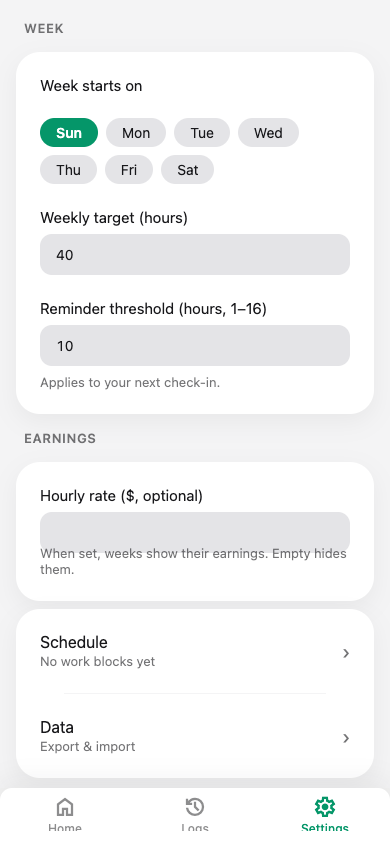
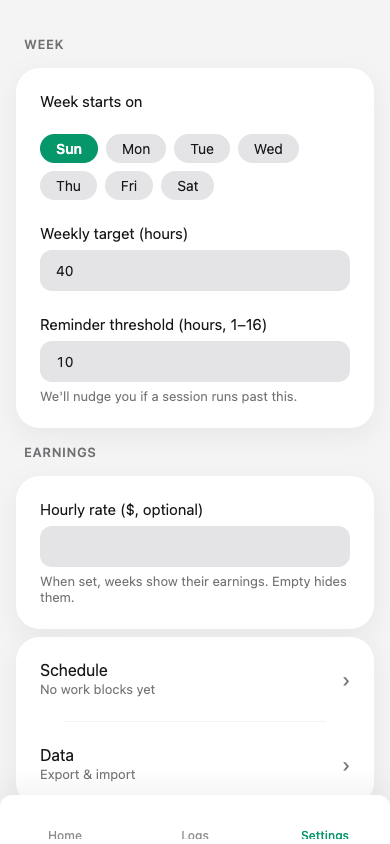
Expert review: resolve the high and medium findings
H1 — Logs color system: green stops meaning 'a category'. Breakdown
dots go neutral zinc steps; the today day-bar is text-colored with a
small green dot marker underneath (so the legend can never collide
with 'today'); the filter's selected chip fills dark (ChipRow gains
selectedStyle='dark') instead of category-green.

M1 — weekday initials under the seven day-bars (first grapheme of the
short name; Bangla graphemes work the same way).

H2 — Sheet duration promoted: '3h 28m' via a new engine
formatDurationWords (tested), 20px semibold centered — the payload of
the sheet no longer has the lowest visual weight on it.

H4 — Reminder threshold hint now explains behavior: 'We'll nudge you
if a session runs past this.' instead of the timing-ambiguous
'Applies to your next check-in.'

M5 — Category suggestions render as tonal pills in a wrapping row
(softPill), matching the chip language, fixing the cramped
suggestions-to-NOTE gap.

M6 — Dark progress track lightened one step (#52525B) so the goal is
perceivable against the near-black canvas.

M7 — Setup pills meet the 44pt touch-target minimum.

H3/M2/M3 deliberately unchanged: the session list already flows
directly after next-block (the reviewer's 270px dead zone was the old
bottom-anchored layout), and next-block centering + the nav card's
headerlessness are ratified decisions from the approved Stitch export.

Suite 111 (two new formatDurationWords tests).

diff --git a/app/(tabs)/logs.tsx b/app/(tabs)/logs.tsx
@@ -43,7 +43,7 @@ function buildRows(weeks: LogWeek[], isExpanded: (week: LogWeek) => boolean): Ro
 export default function LogsScreen() {
   const insets = useSafeAreaInsets();
   const theme = useTheme();
-  const { t, locale } = useI18n();
+  const { t, locale, weekdayShortName } = useI18n();
   const { refresh, sessions, settings, now, saveSession, removeSession, saveSettings } =
     useLogbook();
 
@@ -103,19 +103,30 @@ export default function LogsScreen() {
         row
         earningsLabel={week.earningsLabel}
       />
-      <View style={styles.bars}>
-        {week.dayBars.map((bar) => (
-          <View
-            key={bar.key}
-            style={[
-              styles.bar,
-              {
-                height: 3 + bar.intensity * 28,
-                backgroundColor: bar.isToday ? theme.accent : theme.inset,
-              },
-            ]}
-          />
-        ))}
+      <View>
+        <View style={styles.bars}>
+          {week.dayBars.map((bar) => (
+            <View key={bar.key} style={styles.barCol}>
+              <View
+                style={[
+                  styles.bar,
+                  {
+                    height: 3 + bar.intensity * 28,
+                    backgroundColor: bar.isToday ? theme.text : theme.inset,
+                  },
+                ]}
+              />
+              <View style={[styles.todayDot, { backgroundColor: bar.isToday ? theme.accent : 'transparent' }]} />
+            </View>
+          ))}
+        </View>
+        <View style={styles.barLabels}>
+          {week.dayBars.map((bar, i) => (
+            <Text key={bar.key} style={styles.barLabel}>
+              {Array.from(weekdayShortName((week.range.start.getDay() + i) % 7))[0]}
+            </Text>
+          ))}
+        </View>
       </View>
       {week.categoryBreakdown.length > 0 && (
         <View style={[styles.breakdown, { borderTopColor: theme.canvas }]}>
@@ -198,6 +209,7 @@ export default function LogsScreen() {
           options={[t('all'), ...suggestions]}
           isSelected={(option) => (categoryFilter === null ? option === t('all') : option === categoryFilter)}
           onSelect={(option) => setCategoryFilter(option === t('all') ? null : option)}
+          selectedStyle="dark"
         />
       </View>
 
@@ -228,10 +240,11 @@ export default function LogsScreen() {
   );
 }
 
-/** The breakdown dot palette — emerald first, then muted zinc steps. */
+/** The breakdown dot palette — neutral zinc steps. Green is reserved for the
+ *  working state (progress, earnings, today), never a category. */
 function dotColor(theme: ReturnType<typeof useTheme>, index: number): string {
-  if (index === 0) return theme.accent;
-  return index === 1 ? '#71717A' : theme.inset;
+  const steps = ['#52525B', '#71717A', '#A1A1AA'];
+  return steps[index % steps.length];
 }
 
 const styles = StyleSheet.create({
@@ -293,9 +306,30 @@ const styles = StyleSheet.create({
     height: 32,
     marginTop: 8,
   },
-  bar: {
+  barCol: {
     flex: 1,
+    alignItems: 'center',
+    gap: 3,
+  },
+  bar: {
+    alignSelf: 'stretch',
     borderRadius: 2,
+  },
+  todayDot: {
+    width: 4,
+    height: 4,
+    borderRadius: 999,
+  },
+  barLabels: {
+    flexDirection: 'row',
+    gap: 4,
+    marginTop: 2,
+  },
+  barLabel: {
+    flex: 1,
+    textAlign: 'center',
+    fontSize: 10,
+    opacity: 0.5,
   },
   breakdown: {
     gap: 12,

diff --git a/src/components/SessionDetailSheet.tsx b/src/components/SessionDetailSheet.tsx
@@ -16,10 +16,10 @@ import {
 import { SafeAreaView } from 'react-native-safe-area-context';
 
 import { DateTimeField } from '@/components/DateTimeField';
-import { formatDuration } from '@/engine/time';
+import { formatDuration, formatDurationWords } from '@/engine/time';
 import type { Session, SessionPatch } from '@/engine/types';
 import { validateSessionTimes } from '@/engine/validation';
-import { cardStyle, RADIUS, useTheme } from '@/theme';
+import { cardStyle, RADIUS, softPill, useTheme } from '@/theme';
 import { useHour12 } from '@/ui/clock';
 import { useI18n, type StringKey } from '@/ui/i18n';
 
@@ -145,10 +145,10 @@ export function SessionDetailSheet({ session, suggestions, onSave, onDelete, onC
         {renderField('out')}
 
         {(checkOut === null || checkOut.getTime() > checkIn.getTime()) && (
-          <Text style={[styles.durationPreview, { color: theme.muted }]}>
+          <Text style={[styles.durationPreview, { color: theme.text }]}>
             {checkOut === null
-              ? `${formatDuration(Math.floor((Date.now() - checkIn.getTime()) / 1000))} ${t('soFar')}`
-              : formatDuration(Math.floor((checkOut.getTime() - checkIn.getTime()) / 1000))}
+              ? `${formatDurationWords(Math.floor((Date.now() - checkIn.getTime()) / 1000))} ${t('soFar')}`
+              : formatDurationWords(Math.floor((checkOut.getTime() - checkIn.getTime()) / 1000))}
           </Text>
         )}
 
@@ -166,8 +166,12 @@ export function SessionDetailSheet({ session, suggestions, onSave, onDelete, onC
             .filter((s) => s.length > 0 && s !== category)
             .slice(0, 6)
             .map((s) => (
-              <Pressable key={s} hitSlop={{ top: 4, bottom: 4, left: 4, right: 4 }} onPress={() => setCategory(s)}>
-                <Text style={{ color: theme.accent, fontSize: 13, paddingVertical: 2 }}>{s}</Text>
+              <Pressable
+                key={s}
+                hitSlop={{ top: 4, bottom: 4, left: 4, right: 4 }}
+                style={softPill(theme)}
+                onPress={() => setCategory(s)}>
+                <Text style={{ color: theme.accent, fontSize: 13, fontWeight: '500' }}>{s}</Text>
               </Pressable>
             ))}
         </View>
@@ -276,8 +280,9 @@ const styles = StyleSheet.create({
     height: 70,
   },
   suggestions: {
-    gap: 16,
-    marginHorizontal: 8,
+    flexDirection: 'row',
+    flexWrap: 'wrap',
+    gap: 8,
   },
   error: {
     fontSize: 14,
@@ -293,10 +298,11 @@ const styles = StyleSheet.create({
     paddingVertical: 10,
   },
   durationPreview: {
-    fontSize: 14,
-    marginBottom: 24,
-    fontVariant: ['tabular-nums'],
+    fontSize: 20,
+    fontWeight: '600',
     textAlign: 'center',
+    fontVariant: ['tabular-nums'],
+    marginBottom: 24,
   },
   buttonDisabled: {
     opacity: 0.6,

diff --git a/src/components/ChipRow.tsx b/src/components/ChipRow.tsx
@@ -13,6 +13,7 @@ export function ChipRow({
   onSelect,
   labelOf,
   size = 'md',
+  selectedStyle = 'accent',
   accessibilityLabel,
 }: {
   options: readonly string[];
@@ -23,6 +24,8 @@ export function ChipRow({
   /** Display text per option; defaults to the option itself. */
   labelOf?: (option: string) => string;
   size?: 'md' | 'lg';
+  /** dark = text-color fill (reserved for non-category selections like filters). */
+  selectedStyle?: 'accent' | 'dark';
   /** Optional row label for screen readers. */
   accessibilityLabel?: string;
 }) {
@@ -41,10 +44,16 @@ export function ChipRow({
             style={[
               styles.chip,
               size === 'lg' && styles.chipLg,
-              { backgroundColor: active ? theme.accent : theme.inset },
+              {
+                backgroundColor: active
+                  ? selectedStyle === 'dark'
+                    ? theme.text
+                    : theme.accent
+                  : theme.inset,
+              },
             ]}
             onPress={() => onSelect(option)}>
-            <Text style={[styles.text, size === 'lg' && styles.textLg, { color: active ? theme.onAccent : theme.text }]}>
+            <Text style={[styles.text, size === 'lg' && styles.textLg, { color: active ? (selectedStyle === 'dark' ? theme.surface : theme.onAccent) : theme.text }]}>
               {labelOf ? labelOf(option) : option}
             </Text>
           </Pressable>

diff --git a/src/ui/strings.ts b/src/ui/strings.ts
@@ -18,7 +18,7 @@ const en = {
   exportNow: 'Export now', dismiss: 'Dismiss',
   weekStartsOn: 'Week starts on', weeklyTarget: 'Weekly target (hours)',
   reminderThreshold: 'Reminder threshold (hours, 1–16)',
-  reminderHint: 'Applies to your next check-in.',
+  reminderHint: "We'll nudge you if a session runs past this.",
   hourlyRate: 'Hourly rate ($, optional)',
   rateHint: 'When set, weeks show their earnings. Empty hides them.',
   language: 'Language', system: 'System',
@@ -89,7 +89,7 @@ const bn: Record<StringKey, string> = {
   exportNow: 'এখনই এক্সপোর্ট', dismiss: 'বন্ধ করুন',
   weekStartsOn: 'সপ্তাহ শুরু হয়', weeklyTarget: 'সাপ্তাহিক টার্গেট (ঘণ্টা)',
   reminderThreshold: 'রিমাইন্ডার (ঘণ্টা, ১–১৬)',
-  reminderHint: 'আপনার পরের চেক ইনে প্রযোজ্য।',
+  reminderHint: 'কোনো সেশন এই সময়ের বেশি চললে মনে করিয়ে দেব।',
   hourlyRate: 'ঘণ্টার হার ($, ঐচ্ছিক)',
   rateHint: 'সেট করলে সপ্তাহে আয় দেখাবে। খালি রাখলে লুকানো থাকবে।',
   language: 'ভাষা', system: 'সিস্টেম',

diff --git a/src/engine/time.test.ts b/src/engine/time.test.ts
@@ -1,6 +1,6 @@
 import { describe, expect, it } from 'vitest';
 
-import { formatDateTime, formatDuration, formatElapsed, formatTimeOfDay,
+import { formatDateTime, formatDuration, formatDurationWords, formatElapsed, formatTimeOfDay,
 } from './time';
 
 const at = (y: number, mo: number, d: number, h: number, mi: number, s = 0) =>
@@ -57,5 +57,15 @@ describe('formatDateTime', () => {
     const d = new Date(2026, 7, 27, 14, 47);
     expect(formatDateTime(d, 'en-US')).toBe('Thu, Aug 27, 14:47');
     expect(formatDateTime(d, 'en-US', true)).toBe('Thu, Aug 27, 2:47 PM');
+  });
+});
+
+describe('formatDurationWords', () => {
+  it('renders hours and minutes', () => {
+    expect(formatDurationWords(12480)).toBe('3h 28m');
+  });
+  it('omits zero minutes and zero hours', () => {
+    expect(formatDurationWords(7200)).toBe('2h');
+    expect(formatDurationWords(600)).toBe('10m');
   });
 });

diff --git a/src/engine/time.ts b/src/engine/time.ts
@@ -40,3 +40,12 @@ export function formatDateTime(date: Date, locale: string, hour12 = false): stri
   const day = date.toLocaleDateString(locale, { month: 'short', day: 'numeric' });
   return `${weekday}, ${day}, ${formatTimeOfDay(date, hour12)}`;
 }
+
+/** A spoken-style stamp: `3h 28m` (minutes omitted when zero). */
+export function formatDurationWords(totalSeconds: number): string {
+  const hours = Math.floor(totalSeconds / 3600);
+  const minutes = Math.floor((totalSeconds % 3600) / 60);
+  if (minutes === 0) return `${hours}h`;
+  if (hours === 0) return `${minutes}m`;
+  return `${hours}h ${minutes}m`;
+}

diff --git a/src/components/settings-entry.tsx b/src/components/settings-entry.tsx
@@ -137,7 +137,8 @@ const styles = StyleSheet.create({
   },
   pillSetup: {
     borderRadius: RADIUS.control,
-    paddingVertical: 8,
+    height: 44,
+    justifyContent: 'center',
   },
   pillTextSetup: {
     fontSize: 15,

diff --git a/src/theme.ts b/src/theme.ts
@@ -79,7 +79,7 @@ const light: Theme = {
 const dark: Theme = {
   surface: '#27272A',
   canvas: '#18181B',
-  inset: '#3F3F46',
+  inset: '#52525B',
   text: '#FAFAFA',
   muted: 'rgba(250,250,250,0.75)',
   cardShadow: {
